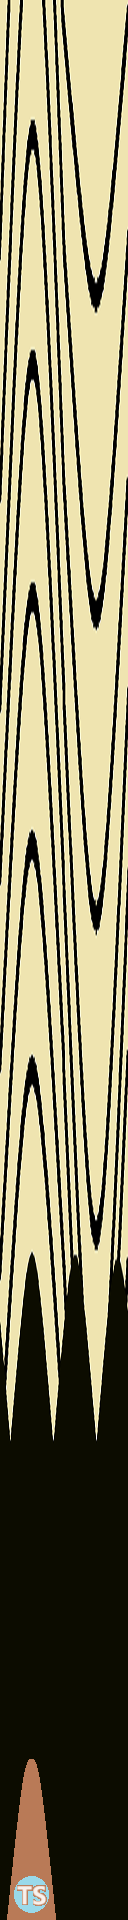
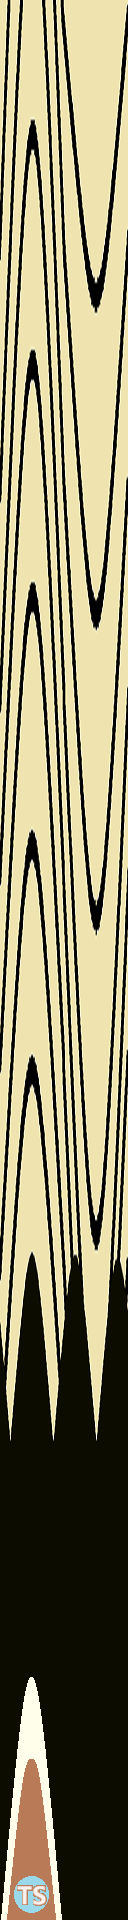
Bug fix: snooker ai not break correctly

Changed region(s): [[0.0, 0.875, 0.4688, 1.0]]

diff --git a/src/main/java/trashsoftware/trashSnooker/core/ai/SnookerAiCue.java b/src/main/java/trashsoftware/trashSnooker/core/ai/SnookerAiCue.java
@@ -80,17 +80,17 @@ public class SnookerAiCue extends AiCue<AbstractSnookerGame, SnookerPlayer> {
         double whiteY = game.getCueBall().getY();
         
         double[] cornerBallPos = leftBreak ? game.getCornerRedBallPosGreenSide() : game.getCornerRedBallPosYellowSide();
-        double thinY = cornerBallPos[1] + sign * game.getGameValues().ball.ballDiameter * 2.0;  // 主要有个加塞瞄点偏移的事情
+        double thinY = cornerBallPos[1] + sign * game.getGameValues().ball.ballDiameter * 3.0;  // 主要有个加塞瞄点偏移的事情
         double[] thinVec = Algebra.unitVector(cornerBallPos[0] - whiteX, thinY - whiteY);
-        double thickY = cornerBallPos[1];
+        double thickY = cornerBallPos[1] + sign * game.getGameValues().ball.ballDiameter * 0.5;
         double[] thickVec = Algebra.unitVector(cornerBallPos[0] - whiteX, thickY - whiteY);
         
         double beginDeg = Math.toDegrees(Algebra.thetaOf(thinVec));
-        int nTicks = 20;
+        int nTicks = 25;
         double totalAng = Math.toDegrees(Algebra.thetaBetweenVectors(thickVec, thinVec));
         double tickDeg = totalAng / nTicks * -sign;
         
-        double selectedSideSpin = 0.45 * sign;
+        double selectedSideSpin = 0.5 * sign;
         
         List<Ball> legalList = game.getAllLegalBalls(1, false, false);
         Set<Ball> legalSet = new HashSet<>(legalList);
